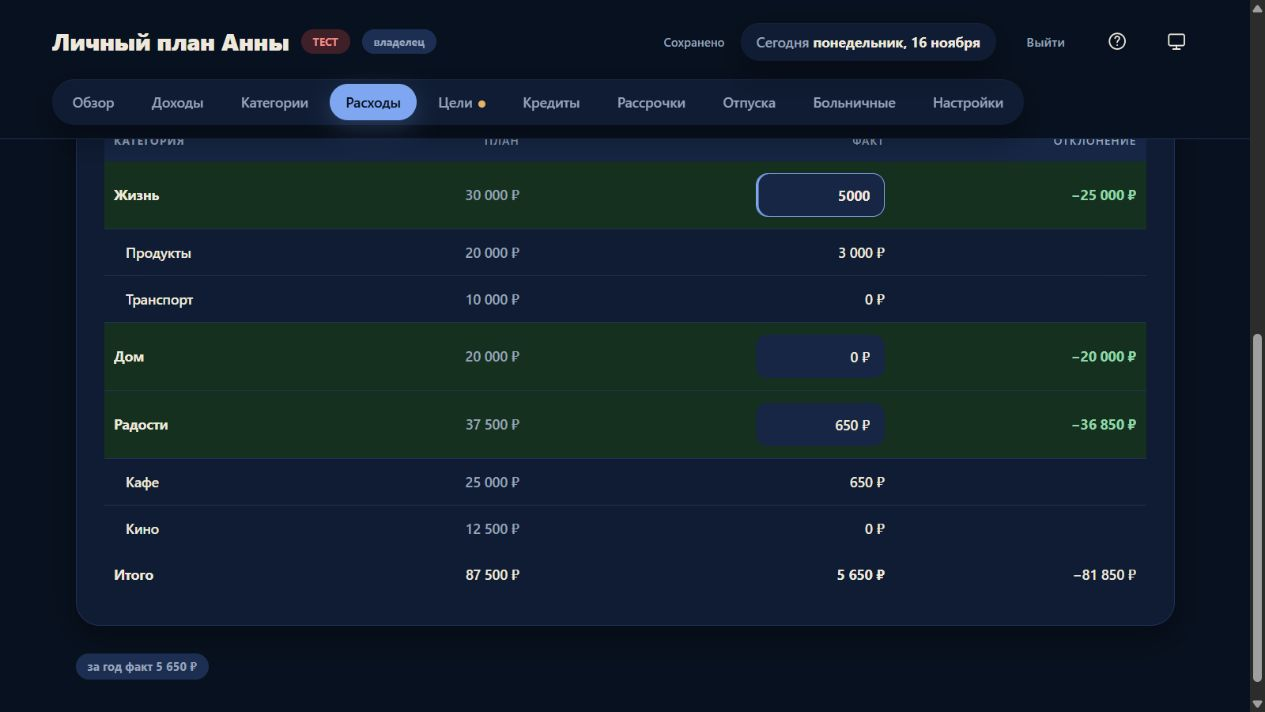
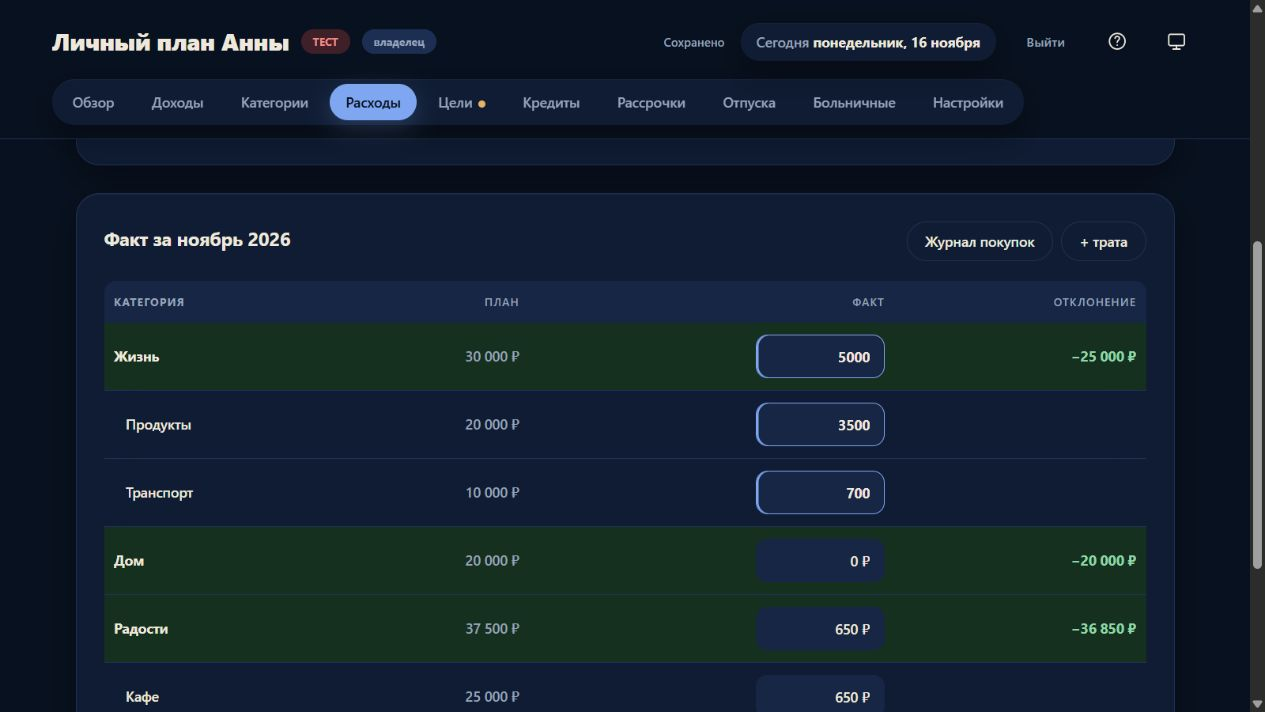
изменение подкатегорий в расходах вернула

diff --git a/src/ui/expense-tracking.js b/src/ui/expense-tracking.js
@@ -28,28 +28,47 @@ export function baseExpenseFacts(ctx, manual, family = false) {
   return [...rows.values()];
 }
 
-export function trackedFacts(ctx, manual, family = false) {
+export function expenseFactRows(ctx, manual, family = false) {
   const facts = baseExpenseFacts(ctx,manual ?? [],family);
   const overrides = ctx.tracking?.fact_overrides ?? [];
-  if (!overrides.length) return facts;
+  if (!overrides.length) return {details:facts, totals:facts};
   const monthKey = family ? 'month' : 'ym';
+  const key = f => JSON.stringify([f[monthKey],f.category_id,f.item_key || '']);
+  const detailRows = new Map(facts.map(f=>[key(f),f]));
+  const categoryTotals = new Map();
   const parents = family ? new Map((ctx.tracking.purchases ?? []).filter(p=>p.item_id).map(p=>[p.item_id,p.category_id])) : null;
-  if (parents) for (const c of ctx.state.family.categories) if (c.parent_id) parents.set(c.id,c.parent_id);
-  const keys = new Set(overrides.map(f=>JSON.stringify([f.month,f.category_id])));
-  return [...facts.filter(f=>!keys.has(JSON.stringify([f[monthKey],parents?.get(f.category_id) || f.category_id]))),
-    ...overrides.map(f=>({[monthKey]:f.month,category_id:f.category_id,category_title:f.category_title,amount:f.amount}))];
+  if (parents) for (const c of ctx.state?.family?.categories ?? []) if (c.parent_id) parents.set(c.id,c.parent_id);
+  for (const f of overrides) {
+    const row = {[monthKey]:f.month,category_id:f.category_id,category_title:f.category_title,amount:f.amount};
+    if (!f.item_id) {
+      categoryTotals.set(JSON.stringify([f.month,f.category_id]),row);
+      continue;
+    }
+    if (parents) {
+      row.category_id = f.item_id;
+      parents.set(f.item_id,f.category_id);
+    } else Object.assign(row,{item_key:f.item_id,item_title:f.item_title});
+    detailRows.set(key(row),row);
+  }
+  const details = [...detailRows.values()];
+  const totals = details.filter(f=>!categoryTotals.has(JSON.stringify([f[monthKey],parents?.get(f.category_id) || f.category_id])));
+  return {details,totals:totals.concat([...categoryTotals.values()])};
 }
 
-export function manualCategoryFact(ctx, month, category) {
-  return ctx.tracking?.fact_overrides?.find(f=>f.month===month && f.category_id===category);
+export function trackedFacts(ctx, manual, family = false) {
+  return expenseFactRows(ctx,manual,family).totals;
 }
 
-export function categoryFactCell(ctx, month, category, amount) {
-  const manual = manualCategoryFact(ctx,month,category.id);
-  const title = `Факт · ${category.title}`;
+export function manualCategoryFact(ctx, month, category, item = '') {
+  return ctx.tracking?.fact_overrides?.find(f=>f.month===month && f.category_id===category && (f.item_id || '')===item);
+}
+
+export function categoryFactCell(ctx, month, category, amount, item) {
+  const manual = manualCategoryFact(ctx,month,category.id,item?.id);
+  const title = `Факт · ${item ? `${category.title} / ${item.title}` : category.title}`;
   if (!ctx.canEdit) return `<span${manual?' title="Итог задан вручную"':''}>${esc(ctx.fmt.money(amount))}</span>`;
   return `<div class="tracking-fact-cell"><input type="text" inputmode="decimal" class="tracking-fact-amount${manual?' own':''}"
-    data-fact-editor data-id="${esc(category.id)}" data-month="${esc(month)}" value="${esc(manual?.amount ?? '')}"
+    data-fact-editor data-id="${esc(category.id)}" data-item="${esc(item?.id ?? '')}" data-month="${esc(month)}" value="${esc(manual?.amount ?? '')}"
     placeholder="${esc(manual?'':ctx.fmt.money(amount))}" aria-label="${esc(title)}" title="${manual?'Введено вручную. Очистите поле, чтобы вернуть расчёт.':'Введите итог вручную'}">
     <small class="danger-text" data-fact-error role="alert" hidden></small></div>`;
 }
@@ -71,6 +90,7 @@ export function createExpenseTracking(client) {
       const next = data ?? { unavailable: true };
       const changed = current?.plan !== plan || current?.data.enabled !== next.enabled
         || current?.data.unavailable !== next.unavailable || current?.data.settings?.revision !== next.settings?.revision
+        || current?.data.fact_items_supported !== next.fact_items_supported
         || JSON.stringify(current?.data.fact_overrides) !== JSON.stringify(next.fact_overrides);
       current = { plan, data: next };
       return changed;
@@ -88,6 +108,7 @@ export function createExpenseTracking(client) {
         } else if (action === 'category_fact') {
           rpc = 'expense_tracking_set_category_fact';
           args = { p_plan:plan, p_month:payload.month, p_category:payload.category, p_amount:payload.amount, p_previous:payload.previous };
+          if (payload.item) args.p_item = payload.item;
         }
         const { data, error } = await client.rpc(rpc,args);
         if (error) {
@@ -398,7 +419,7 @@ export function attachExpenseTracking(root, getCtx, render, api, renderReport = 
     try { renderReport(); } finally { redrawingFacts = false; }
     if (factFocused) {
       const next = [...root.querySelectorAll('[data-fact-editor]')]
-        .find(input=>input.dataset.id===active.dataset.id && input.dataset.month===active.dataset.month);
+        .find(input=>input.dataset.id===active.dataset.id && input.dataset.item===active.dataset.item && input.dataset.month===active.dataset.month);
       if (next) {
         if (draft !== null) next.value = draft;
         next.focus({preventScroll:true});
@@ -429,7 +450,7 @@ export function attachExpenseTracking(root, getCtx, render, api, renderReport = 
       factError(input,'Введите неотрицательную сумму');
       return;
     }
-    const {id:category,month} = input.dataset;
+    const {id:category,item,month} = input.dataset;
     const previous = input.defaultValue === '' ? null : Number(input.defaultValue);
     factError(input);
     if (amount === previous) { input.value = input.defaultValue; return; }
@@ -443,7 +464,7 @@ export function attachExpenseTracking(root, getCtx, render, api, renderReport = 
           await ctx.store.flush();
           if (ctx.store.status() === 'error') throw new Error('Сначала сохраните изменения плана');
         }
-        await api.command(plan,'category_fact',{category,month,amount,previous});
+        await api.command(plan,'category_fact',{category,item,month,amount,previous});
         if (root.contains(input)) {
           input.defaultValue = input.value = amount ?? '';
           input.classList.toggle('own',amount !== null);
@@ -452,7 +473,7 @@ export function attachExpenseTracking(root, getCtx, render, api, renderReport = 
       } catch (error) {
         if (!root.contains(input)) return;
         if (error.code === 'PT409') {
-          const current = manualCategoryFact(getCtx(),month,category);
+          const current = manualCategoryFact(getCtx(),month,category,item);
           input.defaultValue = current?.amount ?? '';
           input.classList.toggle('own',Boolean(current));
         }

diff --git a/src/ui/facts.js b/src/ui/facts.js
@@ -2,7 +2,7 @@
 
 import { esc, card, table, input, pill } from './dom.js';
 import { inSeasonMonth, expenseAppliesInMonth, categoryItemAmounts } from '../engine/expenses.js';
-import { baseExpenseFacts, categoryFactCell, expenseFactActions, expenseTrackingPanel, manualCategoryFact, trackedFacts } from './expense-tracking.js';
+import { categoryFactCell, expenseFactActions, expenseFactRows, expenseTrackingPanel, manualCategoryFact } from './expense-tracking.js';
 
 export const code = 'facts';
 export const title = () => 'Расходы';
@@ -27,10 +27,9 @@ export function render(ctx) {
     : `${year}-${ctx.today.slice(5, 7)}`;
   const cats = (state.expenses?.expense_categories ?? []).slice().sort((a, b) => (a.sort_order ?? 0) - (b.sort_order ?? 0));
   const items = state.expenses?.expense_items ?? [];
-  const manual = state.facts?.expense_facts ?? [];
-  const facts = trackedFacts(ctx,manual);
-  const detailFacts = ctx.tracking?.fact_overrides?.length ? baseExpenseFacts(ctx,manual) : facts;
+  const {totals:facts,details:detailFacts} = expenseFactRows(ctx,state.facts?.expense_facts);
   const canOverride = Array.isArray(ctx.tracking?.fact_overrides);
+  const canOverrideItems = ctx.tracking?.fact_items_supported;
   const plan = planByMonth(ctx, month);
   const tolerance = Number(ctx.cfg.get('fact_tolerance_pct')) || 0;
 
@@ -58,12 +57,12 @@ export function render(ctx) {
   const planTotal = [...plan.values()].reduce((s, n) => s + n, 0);
   const factTotal = facts.filter(f => f.ym === month).reduce((s, f) => s + (Number(f.amount) || 0), 0);
   for (const c of cats) {
-    const hasFact = manualCategoryFact(ctx,month,c.id) || journalEnabled && facts.some(f => f.ym === month && f.category_id === c.id);
+    const hasFact = manualCategoryFact(ctx,month,c.id) || (journalEnabled || canOverrideItems) && facts.some(f => f.ym === month && f.category_id === c.id);
     if (!inSeasonMonth(month, c.season_from, c.season_to) && !hasFact) continue;
     const percent = c.mode === 'percent_income';
     const allItems = items.filter(i => i.category_id === c.id);
     if (!percent && !allItems.length && !expenseAppliesInMonth(c, month, 'monthly_amount') && !hasFact) continue;
-    const own = allItems.filter(i => journalEnabled && factOf(c.id,i.id)
+    const own = allItems.filter(i => (journalEnabled || canOverrideItems) && factOf(c.id,i.id)
       || (percent ? inSeasonMonth(month, i.season_from, i.season_to) : expenseAppliesInMonth(i, month)));
     if (allItems.length && !own.length && !hasFact) continue;
     const catPlan = plan.get(c.id) ?? 0;
@@ -91,7 +90,8 @@ export function render(ctx) {
       rows.push(`<tr class="fact-item">
         <td>${esc(i.title)}</td>
         <td class="num muted">${esc(fmt.money(itemPlan))}</td>
-        <td class="num">${journalEnabled ? esc(fmt.money(factOf(c.id,i.id)?.amount ?? 0)) : input({
+        <td class="num">${canOverrideItems ? categoryFactCell(ctx,month,c,factOf(c.id,i.id)?.amount ?? 0,i)
+          : journalEnabled ? esc(fmt.money(factOf(c.id,i.id)?.amount ?? 0)) : input({
           edit: 'facts|expense_facts|amount', key: { ym: month, category_id: c.id, item_key: i.id },
           defaults: { category_title: c.title, item_title: i.title },
           value: factOf(c.id, i.id)?.amount ?? '', type: 'money', removeWhen: '0', disabled: !editFact, cls: factOf(c.id,i.id) ? 'own' : '', style: 'max-width:130px;text-align:right;' })}</td>
@@ -99,10 +99,10 @@ export function render(ctx) {
       </tr>`);
     }
     // Старый факт категории и факты отсутствующих подкатегорий остаются доступны.
-    if (percent) for (const f of detailFacts.filter(f => f.ym === month && f.category_id === c.id
+    if (percent || canOverrideItems) for (const f of detailFacts.filter(f => f.ym === month && f.category_id === c.id
       && (f.item_key ? !allItems.some(i => i.id === f.item_key) : own.length > 0))) {
       rows.push(`<tr class="fact-item">
-        <td>${esc(f.item_key ? f.item_title || f.item_key : 'Без подкатегории')} <span class="small-note">${f.item_key ? 'ранее внесено по статье' : 'ранее внесено по категории'}</span></td>
+        <td>${esc(f.item_key ? f.item_title || f.item_key : 'Без подкатегории')}${f.item_key || !canOverrideItems ? ` <span class="small-note">${f.item_key ? 'ранее внесено по статье' : 'ранее внесено по категории'}</span>` : ''}</td>
         <td class="num muted">—</td><td class="num">${journalEnabled ? esc(fmt.money(f.amount)) : input({
           edit: 'facts|expense_facts|amount', key: { ym: month, category_id: c.id, item_key: f.item_key ?? '' },
           value: f.amount, type: 'money', removeWhen: '0', disabled: !editFact, cls: 'own', style: 'max-width:130px;text-align:right;',

diff --git a/src/ui/family-budget.js b/src/ui/family-budget.js
@@ -4,7 +4,7 @@ import { familyBudget, familyYearBudget } from '../engine/family.js';
 import { inSeason, inSeasonMonth } from '../engine/expenses.js';
 import { expenseAmountOn } from '../engine/expense-seasons.js';
 import { amountSeasons, amountSeasonHandle, amountSeasonChange } from './expense-seasons.js';
-import { baseExpenseFacts, categoryFactCell, expenseFactActions, expenseTrackingPanel, trackedFacts } from './expense-tracking.js';
+import { categoryFactCell, expenseFactActions, expenseFactRows, expenseTrackingPanel, trackedFacts } from './expense-tracking.js';
 
 const activeCategories = ctx => ctx.state.family.categories.filter(c => !c.archived);
 const yearMonth = ctx => `${ctx.year}-${ctx.today.slice(5,7)}`;
@@ -143,8 +143,8 @@ export function familyFacts(ctx) {
   for(const t of b.targets??[])plans.set(t.category_id,Math.max(plans.get(t.category_id)||0,Number(t.target)));
   const journal = ctx.tracking?.enabled;
   const canOverride = Array.isArray(ctx.tracking?.fact_overrides);
-  const projected = trackedFacts(ctx, f.expense_facts, true);
-  const details = ctx.tracking?.fact_overrides?.length ? baseExpenseFacts(ctx,f.expense_facts,true) : projected;
+  const canOverrideItems = ctx.tracking?.fact_items_supported;
+  const {totals:projected,details} = expenseFactRows(ctx,f.expense_facts,true);
   const fact=(id,rows=projected)=>rows.find(r=>r.category_id===id&&r.month===month)?.amount;
   const actual=journal || canOverride ? projected.filter(r=>r.month===month).reduce((sum,r)=>sum+Number(r.amount),0) : b.actual;
   const monthTabs=`<div class="month-tabs">${Array.from({length:12},(_,i)=>`${ctx.year}-${String(i+1).padStart(2,'0')}`).map(m=>`<button class="${m===month?'active':''}" data-family-budget-action="fact-month" data-id="${m}">${esc(ctx.fmt.month(m,{withYear:false}))}</button>`).join('')}</div>`;
@@ -152,11 +152,12 @@ export function familyFacts(ctx) {
   for(const c of f.categories)if(visible.has(c.id)&&c.parent_id)visible.add(c.parent_id);
   const categories=f.categories.filter(c=>!c.archived||visible.has(c.id));
   const rows=[];
-  const leaf=(c,label=c.title,direct=false)=>{
-    const value=fact(c.id,c.parent_id||direct?details:projected);
-    const cell=canOverride&&!c.parent_id&&!direct ? categoryFactCell(ctx,month,c,value??0)
+  const leaf=(c,parent=null,direct=false)=>{
+    const value=fact(c.id,parent||direct?details:projected);
+    const cell=canOverrideItems&&parent ? categoryFactCell(ctx,month,parent,value??0,c)
+      : canOverride&&!parent&&!direct ? categoryFactCell(ctx,month,c,value??0)
       : journal ? money(value??0) : control(c,'fact',value,{disabled:!ctx.canEdit,label:`Факт за ${month}`});
-    return `<tr${c.parent_id||direct?' class="fact-item"':''}><td>${esc(label)}</td><td class="num muted">${money(plans.get(c.id)||0)}</td>
+    return `<tr${parent||direct?' class="fact-item"':''}><td>${esc(direct?'Без подкатегории':c.title)}</td><td class="num muted">${money(plans.get(c.id)||0)}</td>
       <td class="num">${cell}</td><td class="num">${value==null?'':money(Number(value)-(plans.get(c.id)||0))}</td></tr>`;
   };
   for(const c of categories.filter(c=>!c.parent_id)){
@@ -165,8 +166,8 @@ export function familyFacts(ctx) {
     if(!items.length)rows.push(leaf(c));else{
       const group=[c,...items],plan=group.reduce((s,i)=>s+(plans.get(i.id)||0),0),actual=group.reduce((s,i)=>s+Number(fact(i.id)||0),0);
       rows.push(`<tr><td><b>${esc(c.title)}</b></td><td class="num">${money(plan)}</td><td class="num">${canOverride?categoryFactCell(ctx,month,c,actual):money(actual)}</td><td class="num">${money(actual-plan)}</td></tr>`);
-      if((plans.get(c.id)||0)>0||fact(c.id,details)!=null)rows.push(leaf(c,'Без подкатегории',true));
-      rows.push(...items.map(i=>leaf(i)));
+      if((plans.get(c.id)||0)>0||fact(c.id,details)!=null)rows.push(leaf(c,null,true));
+      rows.push(...items.map(i=>leaf(i,c)));
     }
   }
   return `${monthTabs}${expenseTrackingPanel(ctx,month)}${card({title:`Факт за ${ctx.fmt.month(month)}`,actions:expenseFactActions(ctx),body:table({head:['Категория / подкатегория','План','Факт','Отклонение'],rows:rows.length?rows:['<tr><td colspan="4" class="muted">Категорий нет.</td></tr>'],

diff --git a/help/index.html b/help/index.html
@@ -122,9 +122,10 @@
 
       <section id="expenses" data-guide-section data-keywords="расходы факт план отклонение перерасход статистика месяц">
         <p class="guide-kicker">07 / Сверка с реальностью</p><h2>План и факт расходов</h2>
-        <p>Выберите год и месяц в «Расходах». План берётся из распределения выплат этого расчётного месяца. Введите итог категории прямо в колонке «Факт». Сумма сохраняется после выхода из поля и выделяется рамкой. Если в журнале 3 000 ₽, а вручную задано 5 000 ₽, месячный и годовой отчёты учитывают 5 000 ₽. Покупки и суммы подкатегорий остаются видны, остатки счетов сохраняются.</p>
+        <p>Выберите год и месяц в «Расходах». План берётся из распределения выплат этого расчётного месяца. В колонке «Факт» можно ввести свой итог для категории или подкатегории. Сумма сохраняется после выхода из поля и выделяется рамкой.</p>
+        <p>Итог категории складывается из факта подкатегорий и строки «Без подкатегории», если есть такие траты. Например, 3 500 ₽ на продукты и 700 ₽ на транспорт дают итог 4 200 ₽. Если в поле самой категории задать 5 000 ₽, именно эта сумма попадёт в месячный и годовой отчёты. В строках подкатегорий сохранятся их значения, а покупки останутся в журнале.</p>
         <p>Чтобы снова считать итог автоматически, очистите поле и выйдите из него. Введённый ноль задаёт итог 0 ₽. Отклонение показывает разницу между итогом и планом.</p>
-        <figure><a href="images/expenses.jpg" data-enlarge><img src="images/expenses.jpg" alt="В колонке Факт поле категории Жизнь с ручным итогом 5 000 рублей выделено рамкой" loading="lazy" width="1265" height="712"></a><figcaption>Ручной итог вводится в таблице расходов выбранного месяца.</figcaption></figure>
+        <figure><a href="images/expenses.jpg" data-enlarge><img src="images/expenses.jpg" alt="В таблице расходов ручные суммы категории Жизнь и её подкатегорий выделены рамками" loading="lazy" width="1265" height="712"></a><figcaption>Рамки показывают ручные суммы за выбранный месяц.</figcaption></figure>
         <div class="guide-example"><h3>Пример: продукты</h3><p>План — 20 000 ₽, факт — 21 500 ₽. Отклонение составит +1 500 ₽. Если такие траты повторяются, увеличьте будущий бюджет категории, а не только запись факта.</p></div>
         <p>Ввод факта ведёт статистику и сам по себе не списывает деньги из целей и не переписывает распределение выплат. Строки вне своего периода действия могут быть скрыты; ранее записанный факт при этом сохраняется и учитывается в итогах.</p>
         <h3>Журнал покупок и счета</h3>

diff --git a/src/ui/dashboard.js b/src/ui/dashboard.js
@@ -12,7 +12,7 @@ import { giftPlanTable } from './gifts.js';
 import { renderIncomeReport } from './income-report.js';
 import { buildIncomeReport } from '../engine/income-report.js';
 import {categoryItemAmounts} from '../engine/expenses.js';
-import { baseExpenseFacts, trackedFacts } from './expense-tracking.js';
+import { expenseFactRows } from './expense-tracking.js';
 
 export const code = 'dashboard';
 export const title = () => 'Обзор';
@@ -27,10 +27,10 @@ function expensesView(ctx, rows) {
   const { fmt, state, year } = ctx;
   const cats = state.expenses?.expense_categories ?? [];
   const yearFilter = f => String(f.ym).startsWith(String(year));
-  const manual = state.facts?.expense_facts ?? [];
-  const facts = trackedFacts(ctx,manual).filter(yearFilter);
-  const overrides = new Set((ctx.tracking?.fact_overrides ?? []).filter(f=>f.month.startsWith(String(year))).map(f=>f.category_id));
-  const detailFacts = overrides.size ? baseExpenseFacts(ctx,manual).filter(yearFilter) : facts;
+  const {totals,details} = expenseFactRows(ctx,state.facts?.expense_facts);
+  const facts = totals.filter(yearFilter);
+  const detailFacts = details.filter(yearFilter);
+  const overrides = new Set((ctx.tracking?.fact_overrides ?? []).filter(f=>!f.item_id && f.month.startsWith(String(year))).map(f=>f.category_id));
 
   const plan = new Map();
   for (const r of rows) for (const c of r.expenses.categories) plan.set(c.category_id, (plan.get(c.category_id) ?? 0) + c.amount);

diff --git a/docs/user-guide-maintenance.md b/docs/user-guide-maintenance.md
@@ -32,7 +32,7 @@ node tools/preview/family-server.mjs
 
 Для `income-deposit.jpg` дополнительно задать `FINANCE_INCOME_GUIDE=1`, открыть «Доходы», показать прошедшие выплаты и развернуть карточку «Премия» на 12 000 ₽. Сервер предпросмотра создаёт зачисление в локальной базе.
 
-16.11.2026 обновлены `overview.jpg` и `expenses.jpg`. Меню на компьютере расположено под левым краем названия плана. Для снимка расходов с `FINANCE_TRACKING_GUIDE=1` открыть текущий месяц, ввести 5 000 ₽ в поле «Факт» категории «Жизнь» и выйти из поля. Ручной итог выделяется рамкой, а в строке «Продукты» остаётся 3 000 ₽ из журнала.
+16.11.2026 обновлены `overview.jpg` и `expenses.jpg`. Меню на компьютере расположено под левым краем названия плана. Для снимка расходов с `FINANCE_TRACKING_GUIDE=1` открыть текущий месяц. Ввести 3 500 ₽ и 700 ₽ в поля «Факт» у «Продуктов» и «Транспорта». Затем задать 5 000 ₽ в строке категории «Жизнь». Три поля выделятся рамками.
 
 ## Публикация
 
